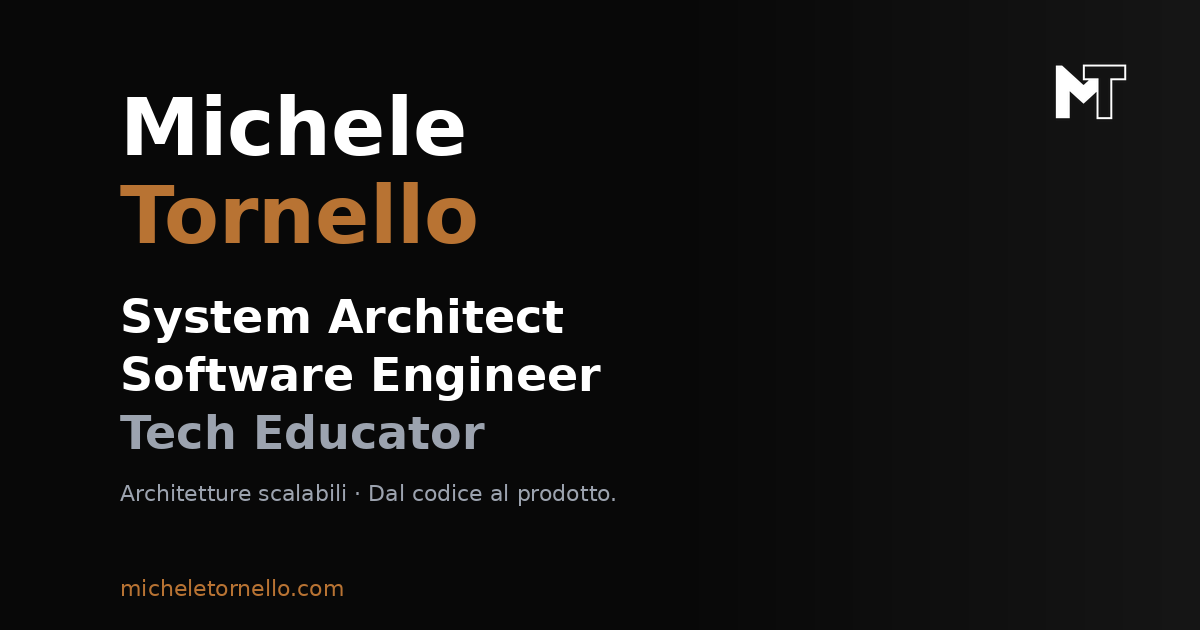
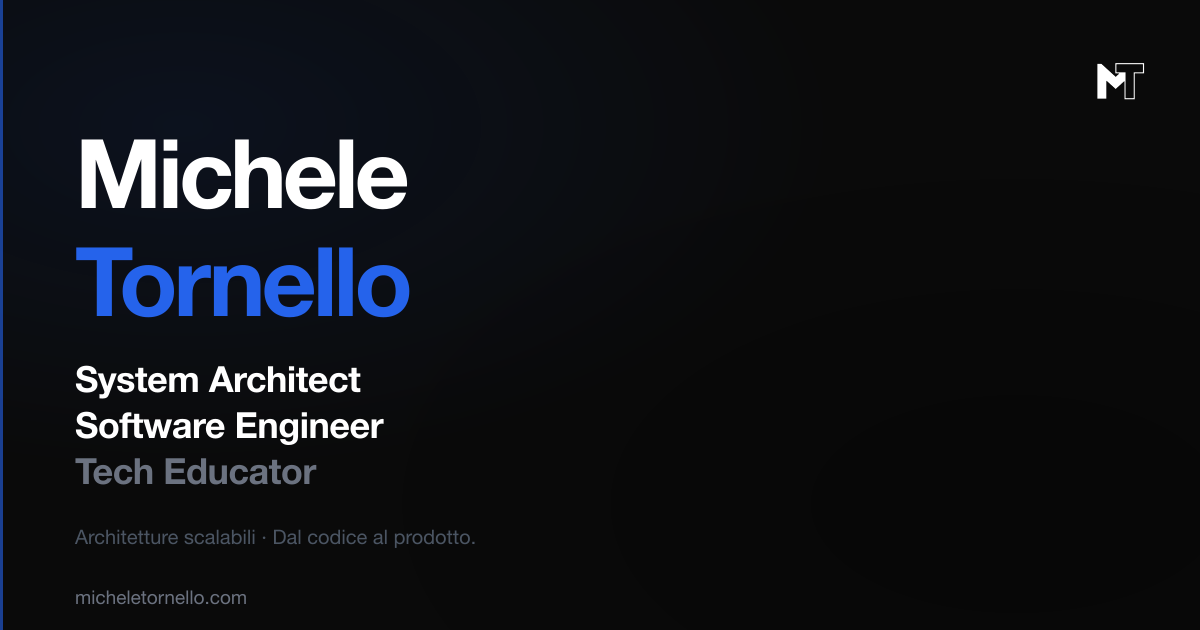
chore(assets): clean up public folder and update og-image branding
- Delete 14 unused/duplicate files (jpg duplicates, Next.js template SVGs, unreferenced images)
- Update og-image.png with site blue (#2563EB) accent replacing orange
- Add logo-mt.webp (4.5 KB, transparent background) extracted from favicon
- Update ChiSonoSection to use renamed michele-profile.webp

diff --git a/src/components/sections/ChiSonoSection.tsx b/src/components/sections/ChiSonoSection.tsx
@@ -44,7 +44,7 @@ export default function ChiSonoSection() {
         <div className="chiB_visual">
           <div className="chiB_photoBox">
             <Image
-              src="/profile-photo.webp"
+              src="/michele-profile.webp"
               alt="Michele Tornello"
               className="chiB_img"
               fill
